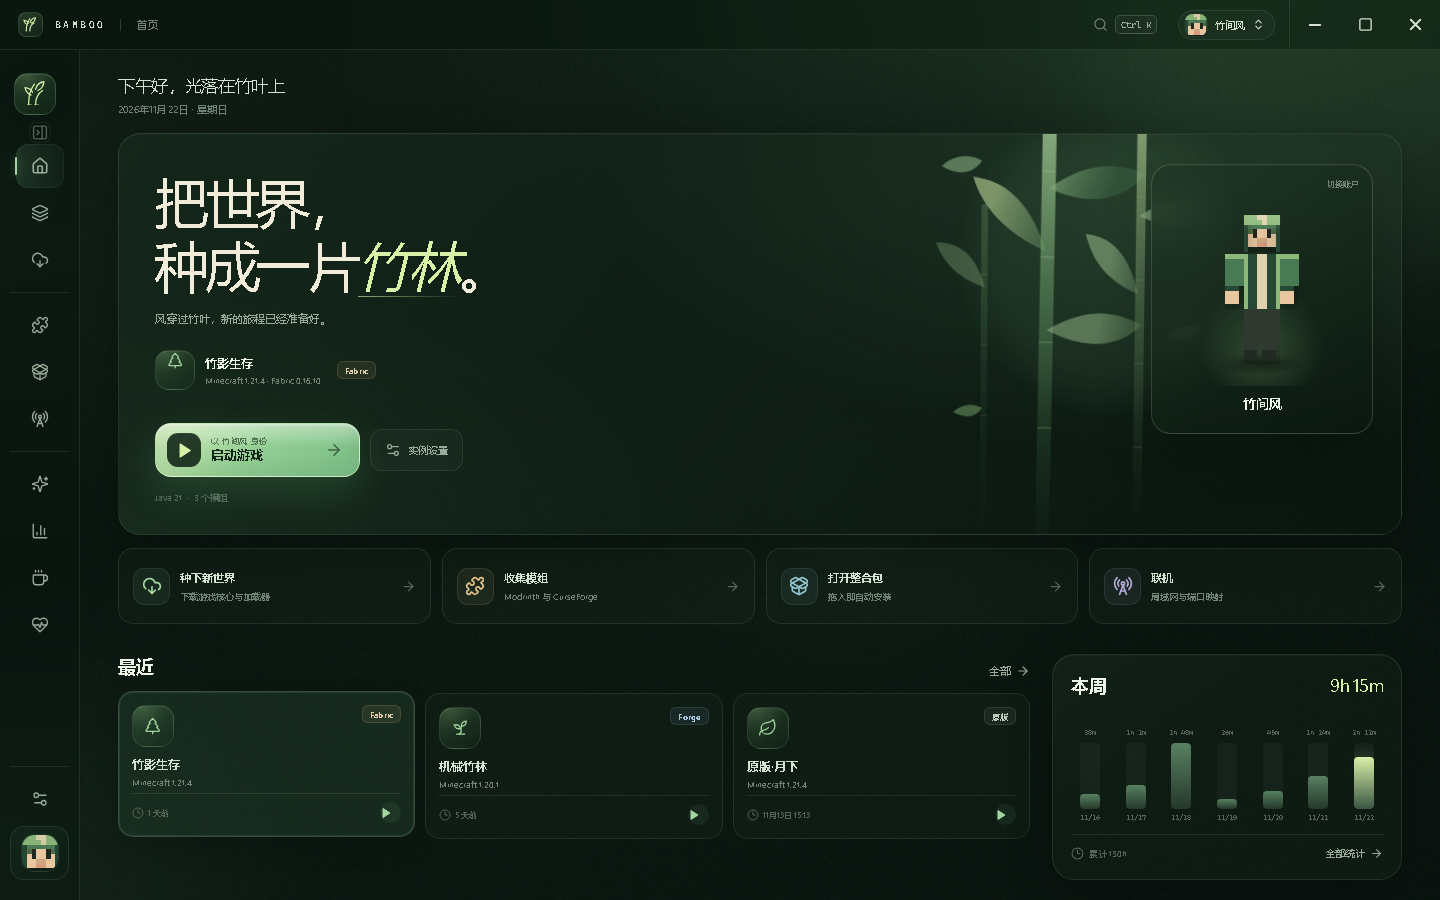
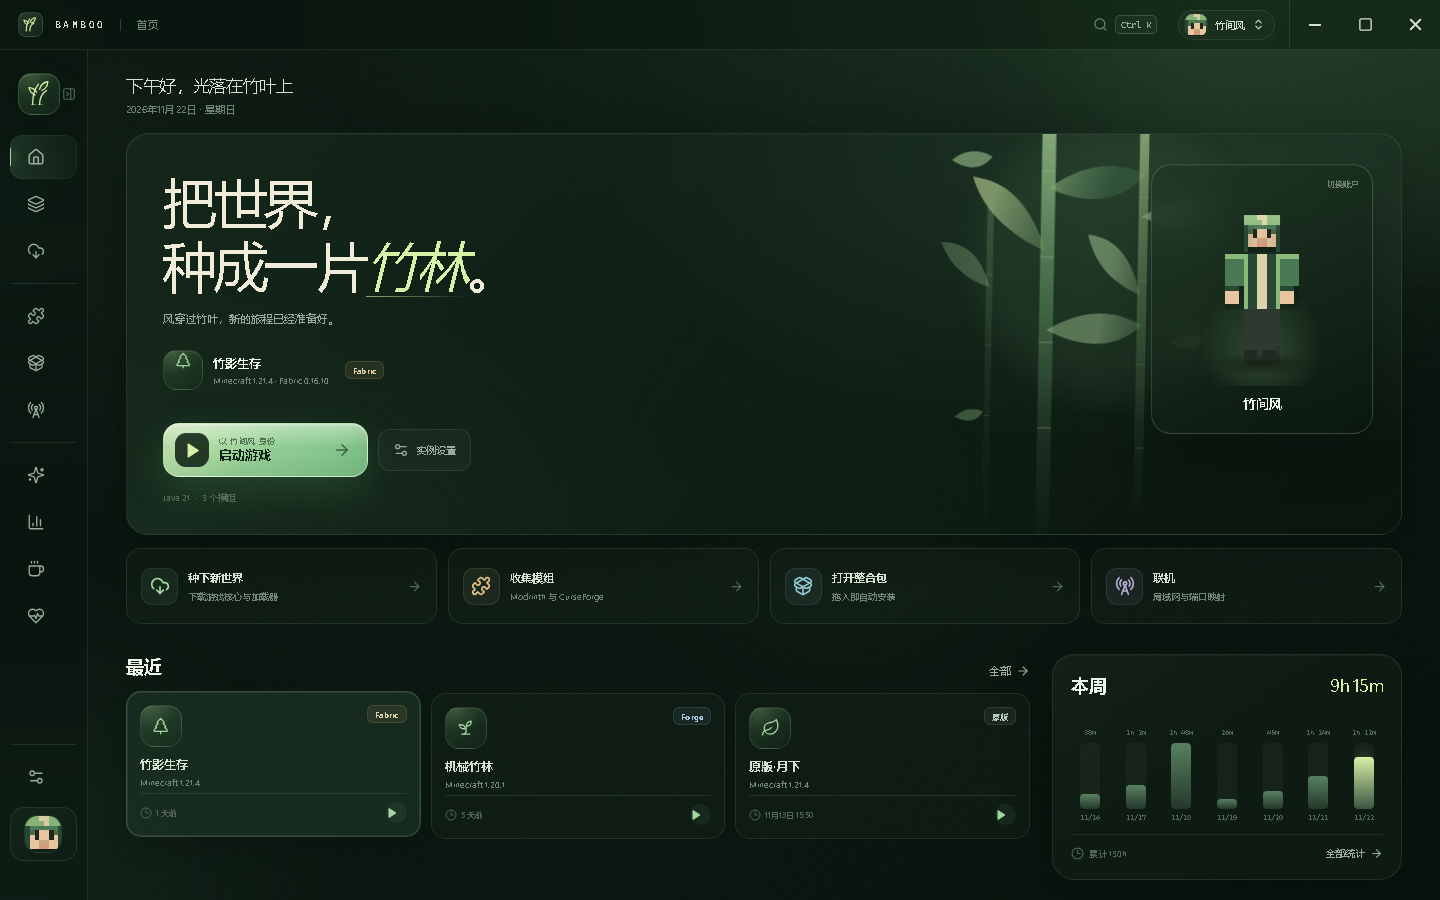
Release Bamboo Launcher v1.0.1

diff --git a/src/renderer/src/styles/global.css b/src/renderer/src/styles/global.css
@@ -618,15 +618,15 @@ kbd {
   background: linear-gradient(180deg, rgba(8, 19, 13, 0.44), rgba(8, 18, 12, 0.26));
   backdrop-filter: blur(30px) saturate(1.1);
   transition:
-    width 0.48s cubic-bezier(0.4, 0, 0.2, 1),
-    padding 0.48s cubic-bezier(0.4, 0, 0.2, 1);
+    width 0.52s cubic-bezier(0.4, 0, 0.2, 1),
+    padding 0.52s cubic-bezier(0.4, 0, 0.2, 1);
   overflow: hidden;
   will-change: width;
   user-select: none;
 }
 
 .sidebar.compact {
-  width: 80px;
+  width: 88px;
   padding-left: 10px;
   padding-right: 10px;
 }
@@ -638,6 +638,9 @@ kbd {
   min-height: 42px;
   padding: 0 4px 20px;
   position: relative;
+  transition:
+    gap 0.44s cubic-bezier(0.4, 0, 0.2, 1),
+    padding 0.52s cubic-bezier(0.4, 0, 0.2, 1);
 }
 
 .brand-mark {
@@ -672,9 +675,9 @@ kbd {
   overflow: hidden;
   white-space: nowrap;
   transition:
-    max-width 0.36s cubic-bezier(0.22, 1, 0.36, 1),
-    opacity 0.2s ease,
-    transform 0.36s cubic-bezier(0.22, 1, 0.36, 1);
+    max-width 0.44s cubic-bezier(0.4, 0, 0.2, 1),
+    opacity 0.22s ease,
+    transform 0.44s cubic-bezier(0.4, 0, 0.2, 1);
 }
 
 .sidebar.compact .brand-type {
@@ -701,17 +704,21 @@ kbd {
 }
 
 .sidebar-collapse {
-  position: absolute;
-  right: 0;
-  top: 8px;
+  position: relative;
   z-index: 2;
+  flex: 0 0 auto;
+  margin-left: auto;
   width: 25px;
   height: 25px;
   border-radius: 8px;
   color: var(--faint);
   display: grid;
   place-items: center;
-  transition: color 0.2s ease, background 0.2s ease;
+  transition:
+    width 0.44s cubic-bezier(0.4, 0, 0.2, 1),
+    height 0.44s cubic-bezier(0.4, 0, 0.2, 1),
+    color 0.2s ease,
+    background 0.2s ease;
 }
 
 .sidebar-collapse:hover {
@@ -731,20 +738,23 @@ kbd {
 
 .sidebar.compact .sidebar-brand {
   justify-content: flex-start;
+  gap: 0;
+  padding-left: 8px;
   padding-bottom: 18px;
 }
 
 .sidebar.compact .sidebar-collapse {
-  left: auto;
-  right: -6px;
-  top: 8px;
-  bottom: auto;
-  width: 20px;
-  height: 20px;
-  transform: none;
-  background: rgba(8, 18, 12, 0.78);
-  border: 1px solid var(--line);
-  border-radius: 7px;
+  width: 18px;
+  height: 25px;
+  margin-left: auto;
+  background: transparent;
+  border: 0;
+  border-radius: 6px;
+}
+
+.sidebar.compact .sidebar-collapse svg {
+  width: 14px;
+  height: 14px;
 }
 
 .sidebar-nav {
@@ -780,8 +790,8 @@ kbd {
   transition:
     color 0.2s ease,
     background 0.2s ease,
-    gap 0.36s cubic-bezier(0.22, 1, 0.36, 1),
-    padding 0.36s cubic-bezier(0.22, 1, 0.36, 1);
+    gap 0.44s cubic-bezier(0.4, 0, 0.2, 1),
+    padding 0.52s cubic-bezier(0.4, 0, 0.2, 1);
 }
 
 .nav-item:hover {
@@ -831,9 +841,9 @@ kbd {
   opacity: 1;
   transform: translateX(0);
   transition:
-    max-width 0.36s cubic-bezier(0.22, 1, 0.36, 1),
-    opacity 0.18s ease,
-    transform 0.36s cubic-bezier(0.22, 1, 0.36, 1);
+    max-width 0.44s cubic-bezier(0.4, 0, 0.2, 1),
+    opacity 0.22s ease,
+    transform 0.44s cubic-bezier(0.4, 0, 0.2, 1);
 }
 
 .nav-active-leaf {
@@ -860,7 +870,7 @@ kbd {
   width: 100%;
   margin-left: 0;
   margin-right: 0;
-  padding: 0 12px;
+  padding: 0 16px;
   height: 44px;
 }
 
@@ -912,7 +922,10 @@ kbd {
   border-radius: 14px;
   background: linear-gradient(145deg, rgba(31, 54, 38, 0.38), rgba(18, 33, 23, 0.26));
   border: 1px solid var(--line);
-  transition: all 0.2s var(--ease);
+  transition:
+    background 0.2s ease,
+    border-color 0.2s ease,
+    padding 0.52s cubic-bezier(0.4, 0, 0.2, 1);
 }
 
 .sidebar-account:hover {
@@ -941,8 +954,8 @@ kbd {
   overflow: hidden;
   white-space: nowrap;
   transition:
-    max-width 0.36s cubic-bezier(0.22, 1, 0.36, 1),
-    opacity 0.18s ease;
+    max-width 0.44s cubic-bezier(0.4, 0, 0.2, 1),
+    opacity 0.22s ease;
 }
 
 .sidebar.compact .sidebar-account-copy {
@@ -1002,8 +1015,6 @@ kbd {
 }
 
 .sidebar.compact .sidebar-footer {
-  max-height: 0;
-  padding-top: 0;
   opacity: 0;
 }
 
@@ -1022,11 +1033,11 @@ kbd {
 .sidebar.compact .sidebar-account {
   justify-content: flex-start;
   gap: 0;
-  padding: 7px;
+  padding: 9px 7px 9px 13px;
 }
 
 .sidebar.compact .sidebar-bottom {
-  gap: 5px;
+  gap: 8px;
 }
 
 .sidebar.compact .sidebar-nav {

diff --git a/src/renderer/src/styles/pages.css b/src/renderer/src/styles/pages.css
@@ -5622,9 +5622,9 @@
 
 @media (max-width: 900px) {
   .sidebar {
-    width: 80px;
-    padding-left: 8px;
-    padding-right: 8px;
+    width: 88px;
+    padding-left: 10px;
+    padding-right: 10px;
   }
 
   .sidebar .brand-type,
@@ -5642,8 +5642,6 @@
   }
 
   .sidebar .sidebar-footer {
-    max-height: 0;
-    padding-top: 0;
     opacity: 0;
   }
 

diff --git a/docs/VERIFICATION.md b/docs/VERIFICATION.md
@@ -189,7 +189,7 @@
 
 | 检查 | 结果 |
 | --- | --- |
-| 侧栏展开 / 收起 | 宽度从 232px 平滑过渡到 80px；文字、品牌与账户信息独立淡出，无闪烁（见 [sidebar-compact.png](screens/sidebar-compact.png)） |
+| 侧栏展开 / 收起 | 宽度从 232px 平滑过渡到 88px；图标、Logo、头像保持同一水平轴，收起按钮随右边缘移动，文字独立淡出；无横向跳位（见 [sidebar-compact.png](screens/sidebar-compact.png)） |
 | 界面降噪 | 移除分组标签、英文 overline、页面重复说明；导航与页面标题缩短 |
 | 窗口控制 | 最小化 / 最大化 / 关闭图标加粗至 2.2–2.5px，按钮宽度 50px，增加悬停反馈与原生 tooltip |
 | 启动进度 | 竹节进度条 + 浮叶 + 检查 / 准备 / 启动三阶段；读取真实 job progress（3/18/46/82%） |
@@ -197,7 +197,7 @@
 | 更新提示 UI | 模拟 `1.0.2` 时显示“可更新至 v1.0.2”、GitHub 来源、检查 / 下载按钮；toast 提供跳转（见 [update-available.png](screens/update-available.png)） |
 | 联系作者 | 设置页底部显示 `Ti68281@xbkjz.icu` 与 `xiaobao@xbkjz.cn`，点击复制并提示（见 [settings-contact.png](screens/settings-contact.png)） |
 | 自动检查开关 | 设置 → 自动检查更新，默认开启；关闭后启动不发起请求 |
-| GitHub 发布 | 源码提交 `6f59e6d`；Release `v1.0.1` 资产 `Bamboo-Portable-1.0.1.zip`，SHA-256 `55852ed…11ddeb2` |
+| GitHub 发布 | 源码提交见 `main` 最新提交；Release `v1.0.1` 资产 `Bamboo-Portable-1.0.1.zip`，SHA-256 `1b76244…42e3f6f` |
 | 最终产物更新检查 | 打包版返回 `source=github`、`latestVersion=1.0.1`、`available=false`，下载地址指向 GitHub Release 资产 |
 
 > 更新下载/安装未做端到端验证：仓库当前没有发布资产，且不能为了测试伪造线上 release。检查逻辑、更新 UI 与下载代码路径已分别验证。
